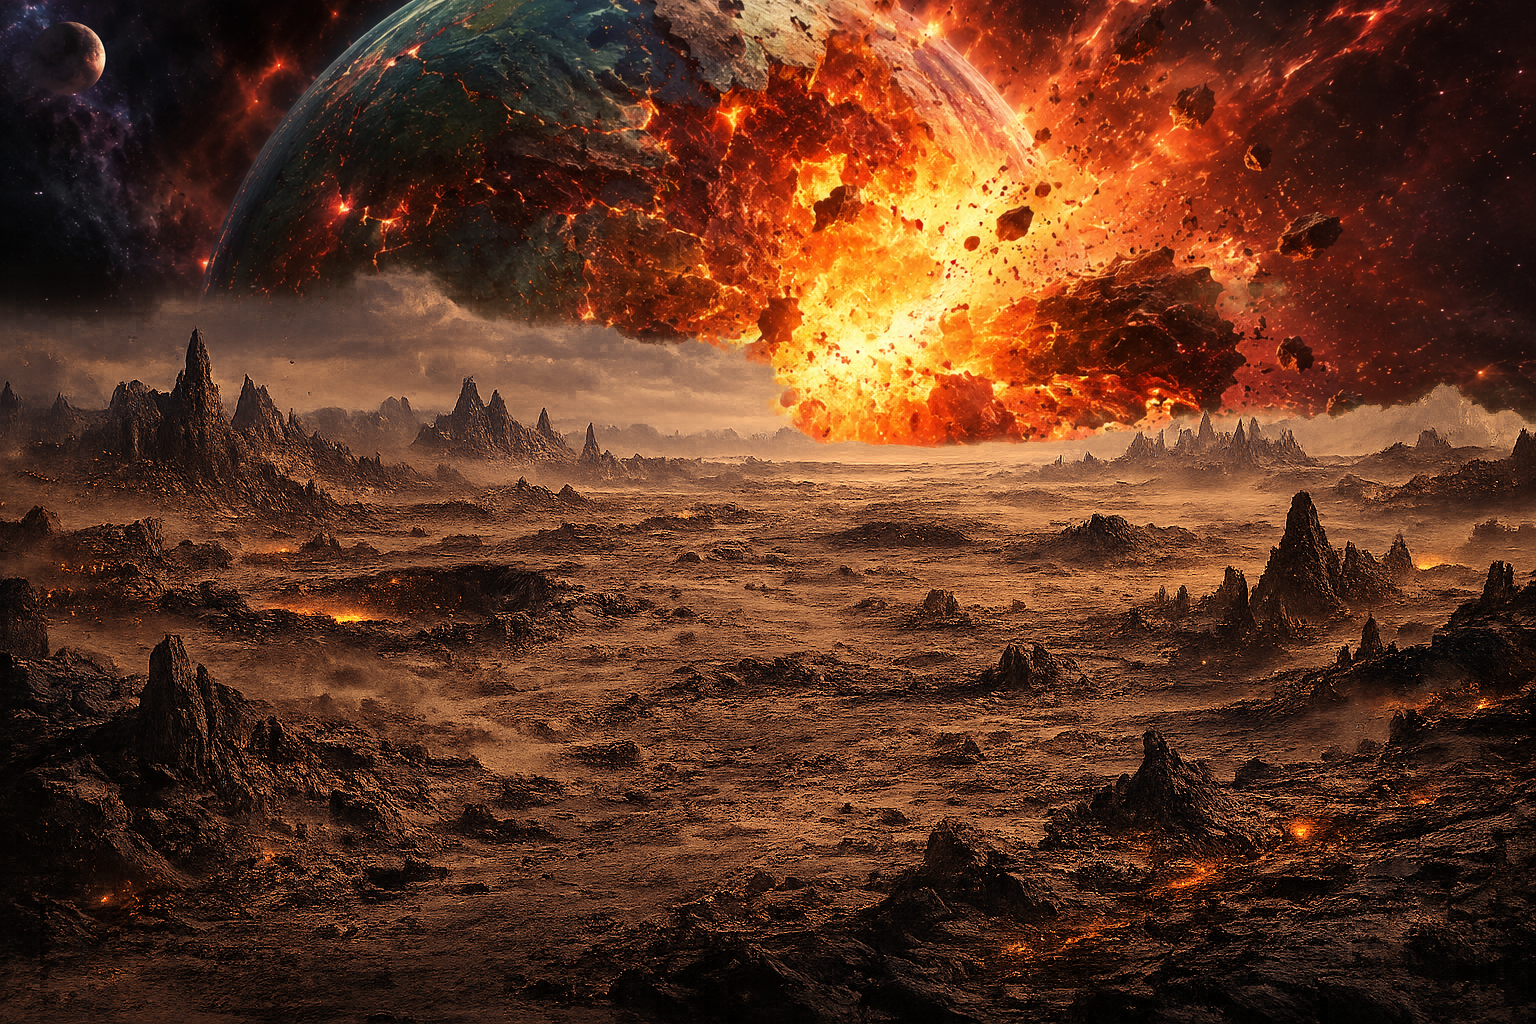
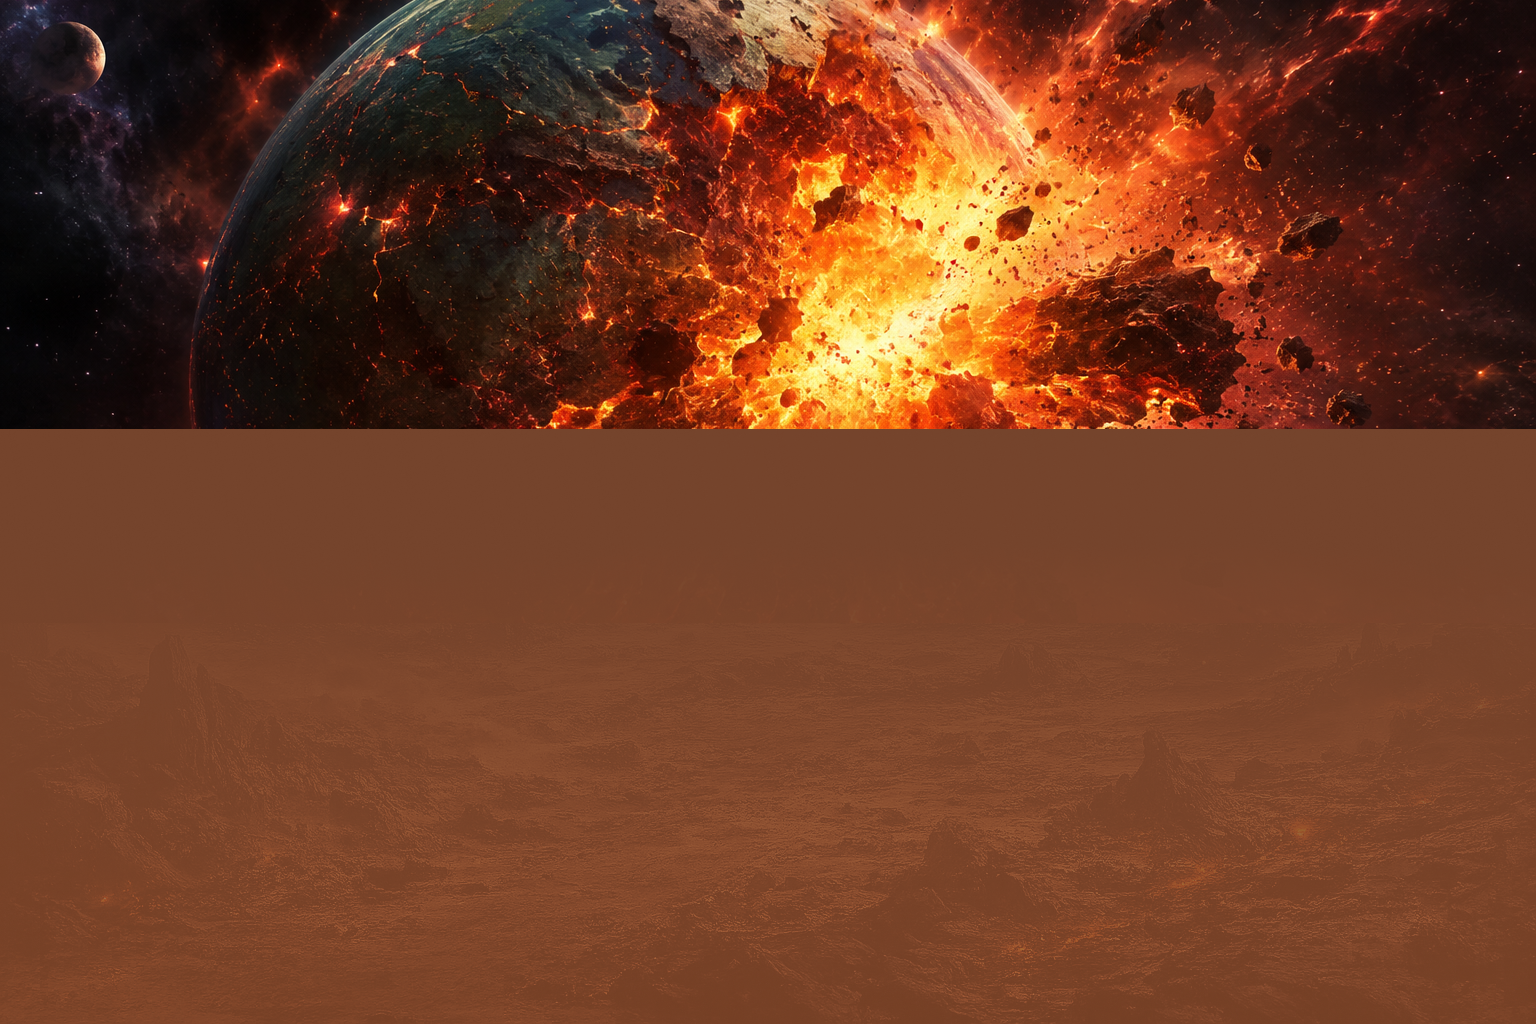
Add parallax and obstacle assets

diff --git a/game.js b/game.js
@@ -20,6 +20,22 @@ const parallax3Images = [
   loadImage("assets/test-1/parallax-3/01-parallax-3-asset.png"),
   loadImage("assets/test-1/parallax-3/02-parallax-3-asset.png"),
 ];
+const parallax2Images = [
+  loadImage("assets/test-1/parallax-2/image 6.png"),
+  loadImage("assets/test-1/parallax-2/image 8.png"),
+  loadImage("assets/test-1/parallax-2/image 9.png"),
+  loadImage("assets/test-1/parallax-2/image 10.png"),
+];
+const parallax1Images = [
+  loadImage("assets/test-1/parallax-1/image 6.png"),
+  loadImage("assets/test-1/parallax-1/image 8.png"),
+  loadImage("assets/test-1/parallax-1/image 9.png"),
+  loadImage("assets/test-1/parallax-1/image 10.png"),
+];
+const obstacleImages = [
+  loadImage("assets/test-1/obstacles/image 12.png"),
+  loadImage("assets/test-1/obstacles/image 13.png"),
+];
 const characterImage = loadImage("assets/test-1/character/character.png");
 const backgroundImage = new Image();
 backgroundImage.src = "assets/test-1/background.png";
@@ -43,7 +59,7 @@ function resize() {
   player.duckHeight = player.height * 0.55;
   player.y = groundY - getPlayerHeight();
   fillParallax3();
-  fillLayer(backgroundNear, 12, groundY * 0.72, 0.45);
+  fillParallax2();
   fillForeground();
 }
 
@@ -82,6 +98,7 @@ function fillForeground() {
       height,
       bottomY,
       speedRatio: 1.25,
+      imageIndex: randomParallax1ImageIndex(),
     });
   }
 }
@@ -102,8 +119,31 @@ function fillParallax3() {
   }
 }
 
+function fillParallax2() {
+  backgroundNear.length = 0;
+  const count = 6;
+  for (let index = 0; index < count; index += 1) {
+    backgroundNear.push({
+      x: (canvas.width / count) * index,
+      y: 0,
+      width: canvas.width * (0.18 + Math.random() * 0.1),
+      bottomY: groundY * 0.76,
+      speedRatio: 0.45,
+      imageIndex: randomParallax2ImageIndex(),
+    });
+  }
+}
+
 function randomParallax3ImageIndex() {
   return Math.floor(Math.random() * parallax3Images.length);
+}
+
+function randomParallax2ImageIndex() {
+  return Math.floor(Math.random() * parallax2Images.length);
+}
+
+function randomParallax1ImageIndex() {
+  return Math.floor(Math.random() * parallax1Images.length);
 }
 
 function getBaseSpeed() {
@@ -148,6 +188,7 @@ function spawnObstacle() {
       y: groundY - height,
       width: player.width * 0.55,
       height,
+      imageIndex: 0,
     });
   } else if (type === 1) {
     const height = player.height * 0.28;
@@ -156,6 +197,7 @@ function spawnObstacle() {
       y: groundY - height,
       width: player.width * 1.25,
       height,
+      imageIndex: 1,
     });
   } else {
     const height = player.height * 0.22;
@@ -210,10 +252,14 @@ function moveLayer(layer, dt) {
       if (layer === backgroundFar) {
         box.width = canvas.width * (0.18 + Math.random() * 0.12);
         box.imageIndex = randomParallax3ImageIndex();
+      } else if (layer === backgroundNear) {
+        box.width = canvas.width * (0.18 + Math.random() * 0.1);
+        box.imageIndex = randomParallax2ImageIndex();
       } else if (layer === foreground) {
         box.width = canvas.width * (0.18 + Math.random() * 0.1);
         box.height = canvas.height * (0.08 + Math.random() * 0.06);
         box.y = box.bottomY - box.height;
+        box.imageIndex = randomParallax1ImageIndex();
       }
     }
   }
@@ -244,19 +290,16 @@ function draw() {
   drawBackgroundImage();
 
   drawParallax3();
-  drawLayer(backgroundNear, "#bbbbbb");
+  drawParallax2();
 
   ctx.fillStyle = "#111111";
   ctx.fillRect(0, groundY, canvas.width, canvas.height * 0.008);
 
   drawCharacter();
 
-  ctx.fillStyle = "#444444";
-  for (const obstacle of obstacles) {
-    ctx.fillRect(obstacle.x, obstacle.y, obstacle.width, obstacle.height);
-  }
+  drawObstacles();
 
-  drawLayer(foreground, "#777777");
+  drawParallax1();
 
   if (gameOver) {
     ctx.fillStyle = "rgba(0, 0, 0, 0.15)";
@@ -301,9 +344,41 @@ function drawCharacter() {
   ctx.drawImage(characterImage, playerBox.x, playerBox.y, playerBox.width, playerBox.height);
 }
 
+function drawObstacles() {
+  ctx.fillStyle = "#444444";
+  for (const obstacle of obstacles) {
+    const image = obstacleImages[obstacle.imageIndex];
+    if (!image || !image.complete || image.naturalWidth === 0) {
+      ctx.fillRect(obstacle.x, obstacle.y, obstacle.width, obstacle.height);
+      continue;
+    }
+    ctx.drawImage(image, obstacle.x, obstacle.y, obstacle.width, obstacle.height);
+  }
+}
+
 function drawParallax3() {
   for (const box of backgroundFar) {
     const image = parallax3Images[box.imageIndex];
+    if (!image.complete || image.naturalWidth === 0) continue;
+    const height = box.width * (image.naturalHeight / image.naturalWidth);
+    box.y = box.bottomY - height;
+    ctx.drawImage(image, box.x, box.y, box.width, height);
+  }
+}
+
+function drawParallax2() {
+  for (const box of backgroundNear) {
+    const image = parallax2Images[box.imageIndex];
+    if (!image.complete || image.naturalWidth === 0) continue;
+    const height = box.width * (image.naturalHeight / image.naturalWidth);
+    box.y = box.bottomY - height;
+    ctx.drawImage(image, box.x, box.y, box.width, height);
+  }
+}
+
+function drawParallax1() {
+  for (const box of foreground) {
+    const image = parallax1Images[box.imageIndex];
     if (!image.complete || image.naturalWidth === 0) continue;
     const height = box.width * (image.naturalHeight / image.naturalWidth);
     box.y = box.bottomY - height;
